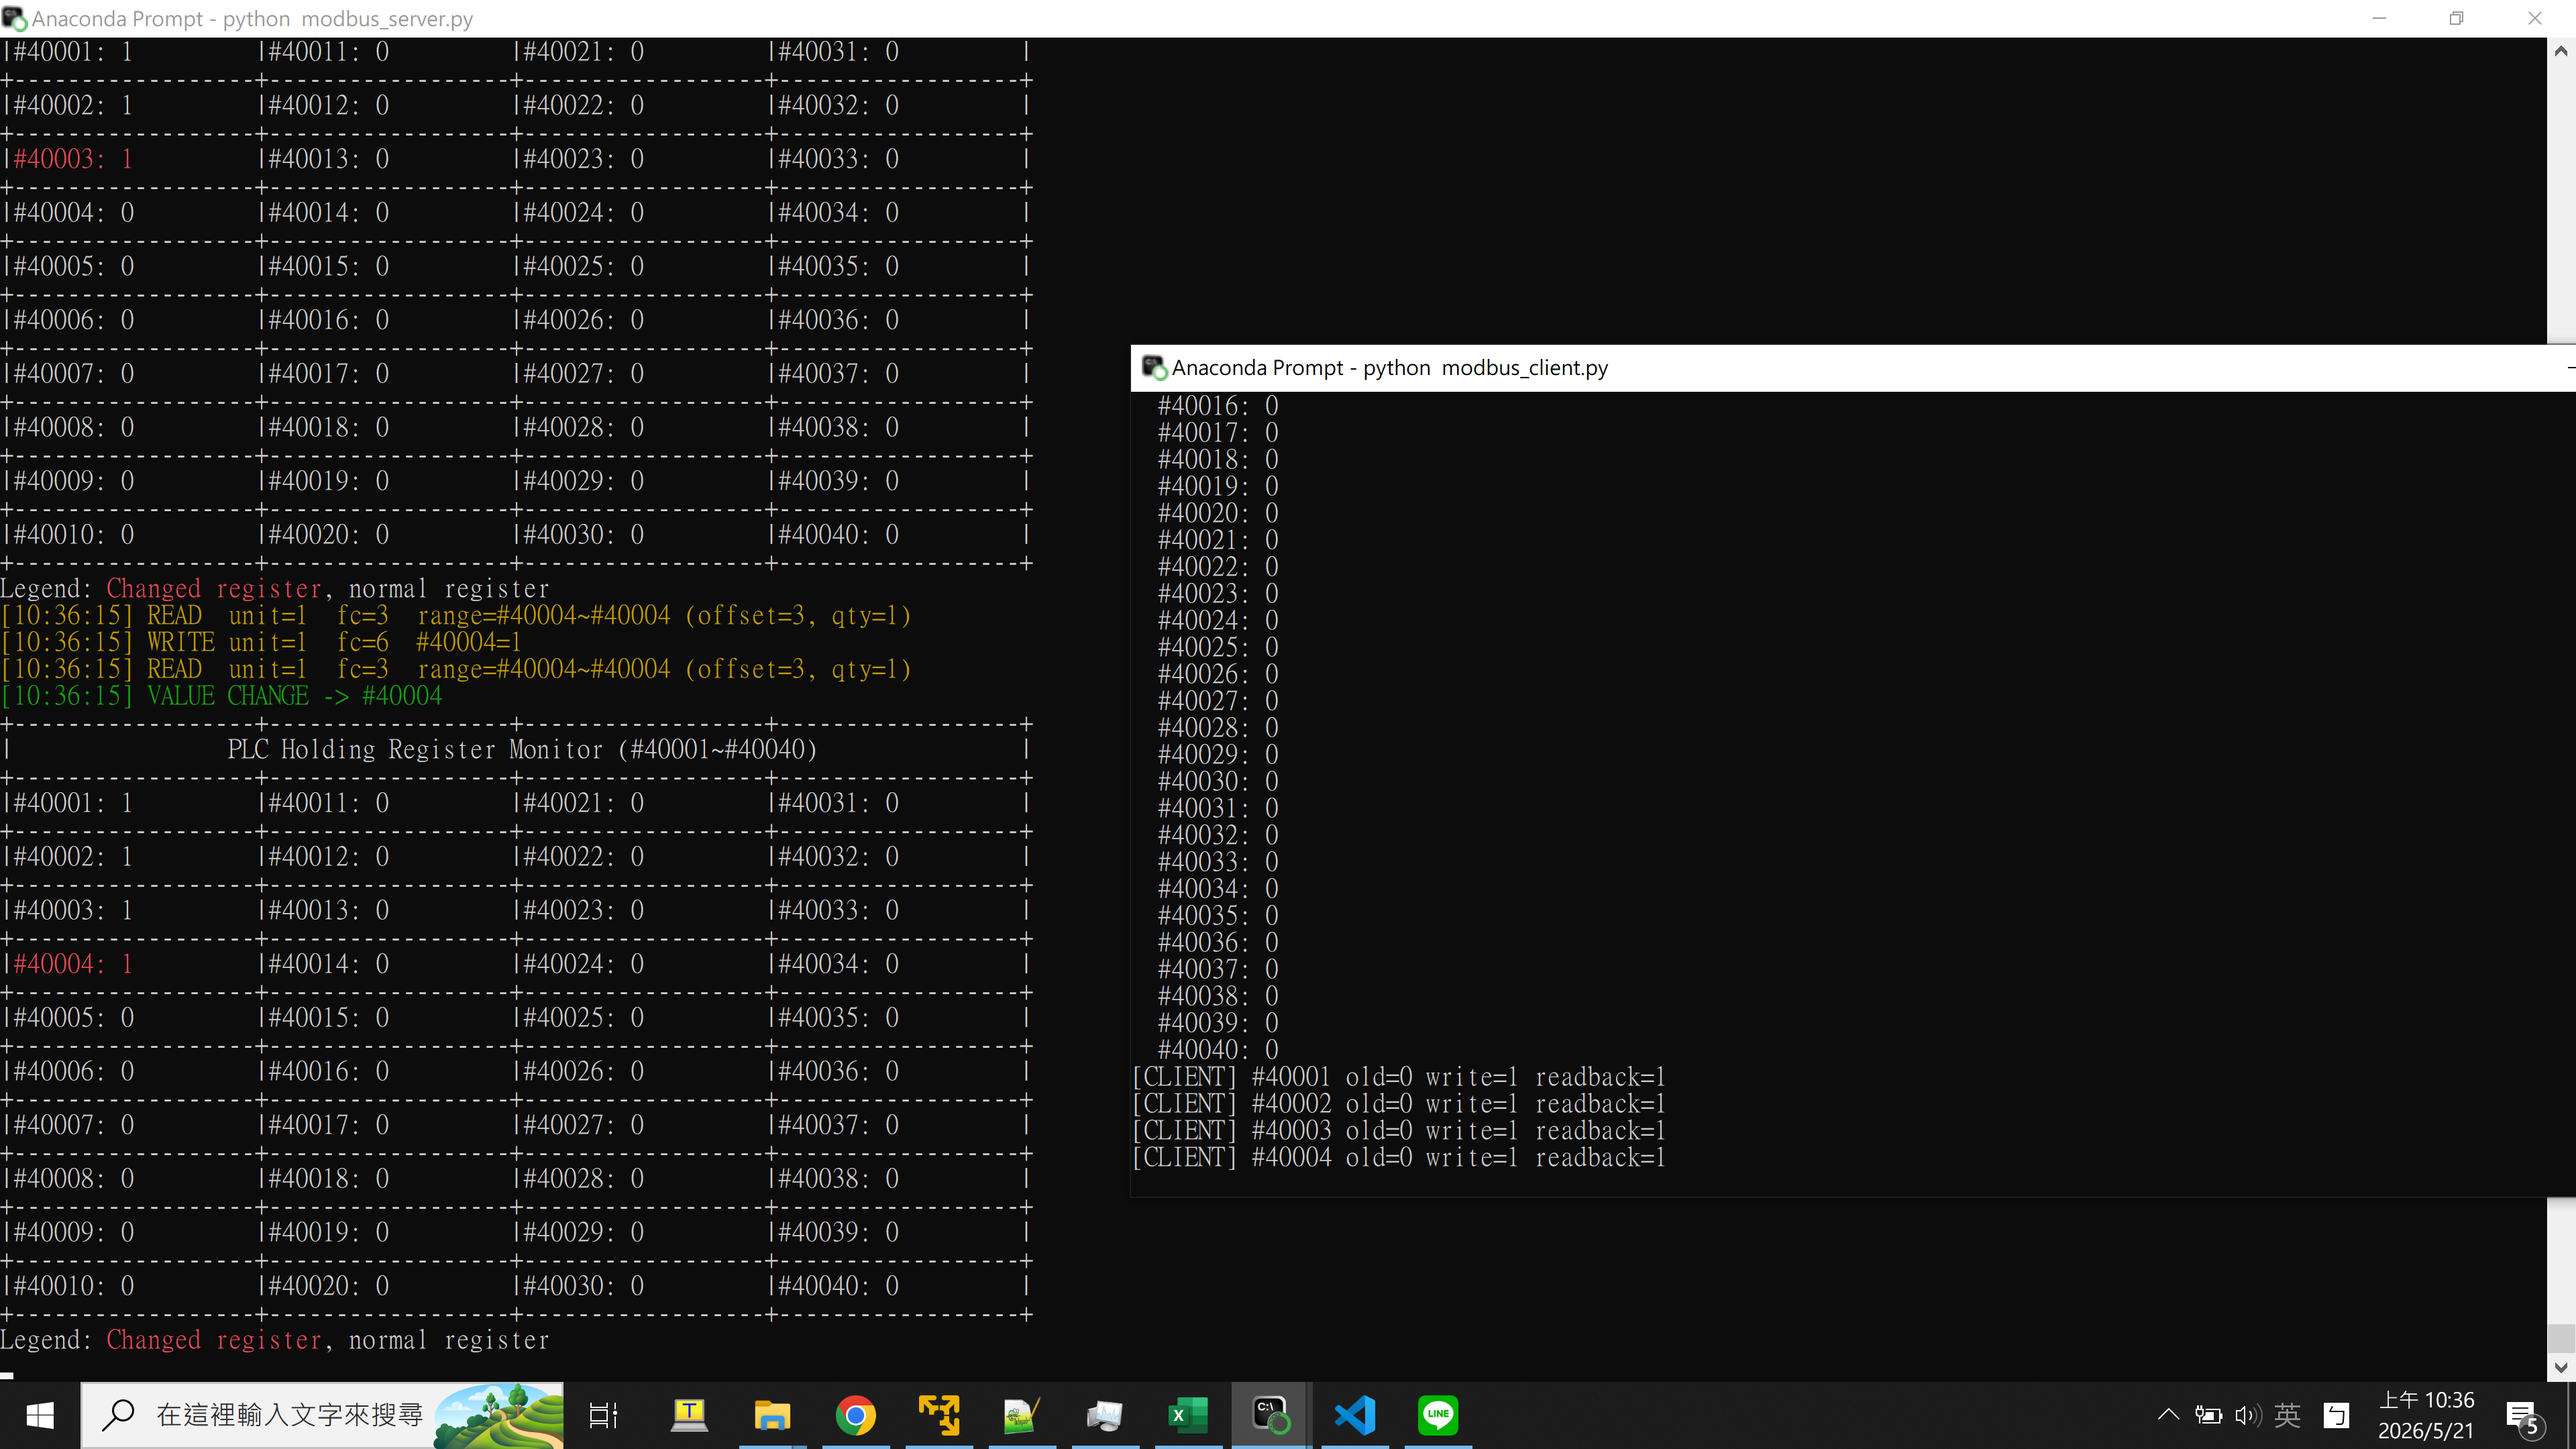
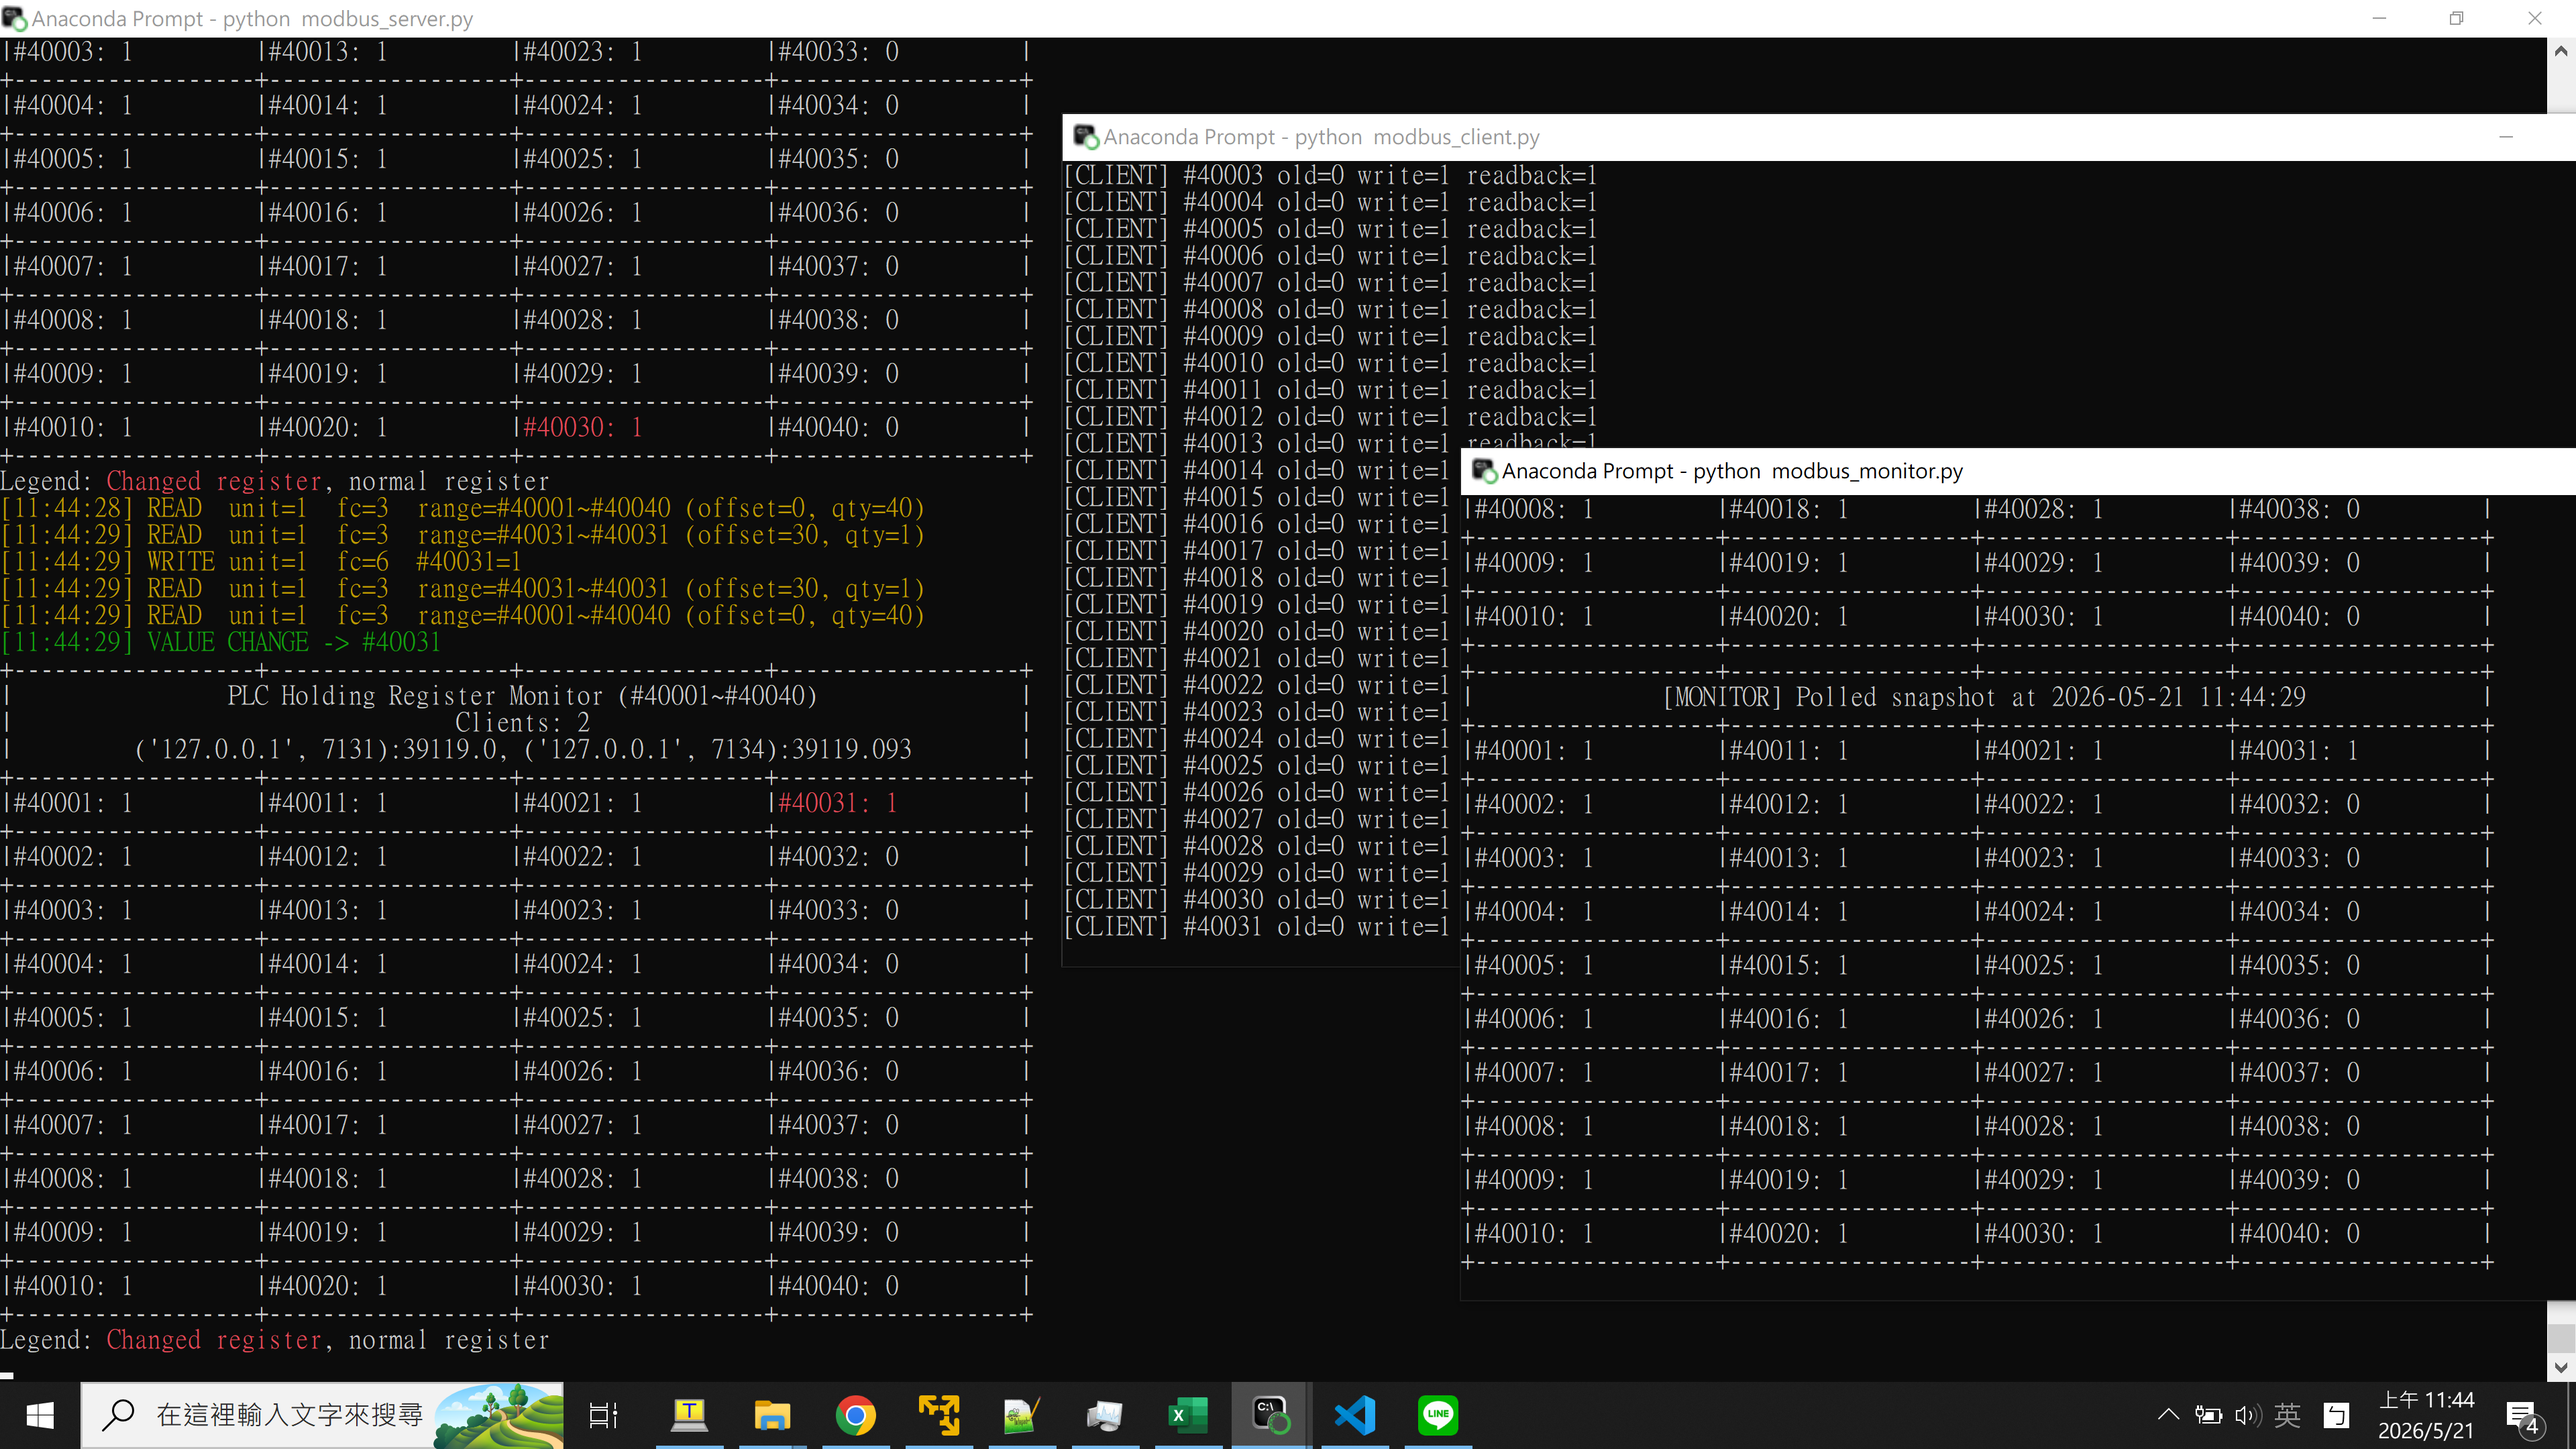
Enhance server client timeout and tracking; close client connections cleanly

diff --git a/modbus_server.py b/modbus_server.py
@@ -12,9 +12,10 @@ Address mapping note:
 import argparse
 from datetime import datetime
 import signal
+import socket
 import sys
 import time
-from typing import Iterable, List, Sequence, Set
+from typing import Iterable, List, Sequence, Set, Tuple
 
 import modbus_tk.hooks as hooks
 from colorama import just_fix_windows_console
@@ -92,7 +93,12 @@ def maybe_color(text: str, color: str, enabled: bool) -> str:
     return f"{color}{text}{RESET}"
 
 
-def render_register_table(values: Sequence[int], changed_offsets: Set[int], color_enabled: bool) -> str:
+def render_register_table(
+    values: Sequence[int],
+    changed_offsets: Set[int],
+    color_enabled: bool,
+    active_clients: Sequence[str],
+) -> str:
     """
     Render #40001~#40040 in an ASCII table.
 
@@ -105,10 +111,15 @@ def render_register_table(values: Sequence[int], changed_offsets: Set[int], colo
 
     horizontal = "+" + "+".join(["-" * cell_width] * col_count) + "+"
     title = "PLC Holding Register Monitor (#40001~#40040)"
+    client_count = len(active_clients)
+    client_status = f"Clients: {client_count}"
+    client_ips = ", ".join(active_clients) if active_clients else "No connected clients"
 
     lines: List[str] = []
     lines.append(horizontal)
     lines.append("|" + title.center(cell_width * col_count + (col_count - 1)) + "|")
+    lines.append("|" + client_status.center(cell_width * col_count + (col_count - 1)) + "|")
+    lines.append("|" + client_ips.center(cell_width * col_count + (col_count - 1)) + "|")
     lines.append(horizontal)
 
     for row in range(row_count):
@@ -205,7 +216,12 @@ def main() -> None:
     # Keep one baseline snapshot; we use it to detect value changes and refresh table.
     previous_values = tuple(slave.get_values("hr", 0, 40))
     print()
-    print(render_register_table(previous_values, changed_offsets=set(), color_enabled=color_enabled))
+    print(render_register_table(
+        previous_values,
+        changed_offsets=set(),
+        color_enabled=color_enabled,
+        active_clients=[],
+    ))
 
     def on_before_handle_request(hook_args):
         """Hook callback fired for each incoming Modbus request."""
@@ -227,6 +243,78 @@ def main() -> None:
         print(f"[SERVER] Warning: could not install request hook: {exc}")
         print("[SERVER] Register change table will still update on value changes")
 
+    active_clients = {}
+    CLIENT_IDLE_TIMEOUT = 30.0
+
+    def on_client_connect(hook_args):
+        if not isinstance(hook_args, tuple) or len(hook_args) != 3:
+            return
+        _server, client_sock, address = hook_args
+        active_clients[client_sock.fileno()] = (address, time.monotonic(), client_sock)
+        print(maybe_color(
+            f"[{timestamp()}] CLIENT CONNECTED {address[0]}:{address[1]} total={len(active_clients)}",
+            GREEN,
+            color_enabled,
+        ))
+
+    def on_client_disconnect(hook_args):
+        if not isinstance(hook_args, tuple) or len(hook_args) < 2:
+            return
+        _server, client_sock = hook_args
+        fileno = client_sock.fileno()
+        entry = active_clients.pop(fileno, None)
+        count = len(active_clients)
+        if entry is not None:
+            address, _, _ = entry
+            print(maybe_color(
+                f"[{timestamp()}] CLIENT DISCONNECTED {address[0]}:{address[1]} total={count}",
+                YELLOW,
+                color_enabled,
+            ))
+        else:
+            print(maybe_color(
+                f"[{timestamp()}] CLIENT DISCONNECTED socket={fileno} total={count}",
+                YELLOW,
+                color_enabled,
+            ))
+
+    def on_after_recv(hook_args):
+        if not isinstance(hook_args, tuple) or len(hook_args) != 3:
+            return
+        _server, client_sock, _request = hook_args
+        fileno = client_sock.fileno()
+        if fileno in active_clients:
+            address, _, sock = active_clients[fileno]
+            active_clients[fileno] = (address, time.monotonic(), sock)
+
+    def cleanup_idle_clients() -> None:
+        now = time.monotonic()
+        for fileno, (address, last_seen, sock) in list(active_clients.items()):
+            if now - last_seen > CLIENT_IDLE_TIMEOUT:
+                try:
+                    sock.close()
+                except Exception:
+                    pass
+                active_clients.pop(fileno, None)
+                try:
+                    if sock in server._sockets:
+                        server._sockets.remove(sock)
+                except Exception:
+                    pass
+                print(maybe_color(
+                    f"[{timestamp()}] CLIENT TIMEOUT {address[0]}:{address[1]} total={len(active_clients)}",
+                    YELLOW,
+                    color_enabled,
+                ))
+
+    try:
+        hooks.install_hook("modbus_tcp.TcpServer.on_connect", on_client_connect)
+        hooks.install_hook("modbus_tcp.TcpServer.on_disconnect", on_client_disconnect)
+        hooks.install_hook("modbus_tcp.TcpServer.after_recv", on_after_recv)
+        print(maybe_color("[SERVER] Connection hooks installed", GREEN, color_enabled))
+    except Exception as exc:
+        print(f"[SERVER] Warning: could not install connection hooks: {exc}")
+
     def shutdown_handler(signum, frame):
         """Gracefully stop server when Ctrl+C or termination signal is received."""
         del signum, frame
@@ -241,6 +329,7 @@ def main() -> None:
     # Keep the main thread alive while the server handles requests internally.
     try:
         while True:
+            cleanup_idle_clients()
             current_values = tuple(slave.get_values("hr", 0, 40))
             changed_offsets = collect_changed_offsets(previous_values, current_values)
 
@@ -250,7 +339,15 @@ def main() -> None:
                     f"#{offset_to_register_number(offset)}" for offset in sorted(changed_offsets)
                 )
                 print(maybe_color(f"[{timestamp()}] VALUE CHANGE -> {changed_text}", GREEN, color_enabled))
-                print(render_register_table(current_values, changed_offsets, color_enabled))
+                active_list = [f"{addr[0]}:{addr[1]}" for addr in active_clients.values()]
+                print(
+                    render_register_table(
+                        current_values,
+                        changed_offsets,
+                        color_enabled,
+                        active_clients=active_list,
+                    )
+                )
                 previous_values = current_values
 
             time.sleep(0.2)

diff --git a/modbus_monitor.py b/modbus_monitor.py
@@ -1,0 +1,125 @@
+"""
+Modbus TCP Register Monitor using modbus_tk.
+
+This monitor reads all holding registers #40001-#40040 from a Modbus TCP server
+and prints them in a neatly aligned ASCII table on each polling interval.
+"""
+
+import argparse
+import time
+from datetime import datetime
+from typing import Sequence, Tuple
+
+from modbus_tk import defines as cst
+from modbus_tk import modbus_tcp
+
+
+def parse_args() -> argparse.Namespace:
+    parser = argparse.ArgumentParser(
+        description="Monitor all Modbus holding registers #40001-#40040."
+    )
+    parser.add_argument(
+        "--host",
+        default="127.0.0.1",
+        help="Modbus server IP address (default: 127.0.0.1).",
+    )
+    parser.add_argument(
+        "--port",
+        type=int,
+        default=502,
+        help="Modbus server port (default: 502).",
+    )
+    parser.add_argument(
+        "--slave-id",
+        type=int,
+        default=1,
+        help="Target slave ID (default: 1).",
+    )
+    parser.add_argument(
+        "--interval",
+        type=float,
+        default=1.0,
+        help="Polling interval in seconds (default: 1.0).",
+    )
+    parser.add_argument(
+        "--timeout",
+        type=float,
+        default=5.0,
+        help="Socket timeout in seconds (default: 5.0).",
+    )
+    return parser.parse_args()
+
+
+def read_all_registers(
+    master: modbus_tcp.TcpMaster, slave_id: int
+) -> Tuple[int, ...]:
+    return tuple(
+        master.execute(
+            slave=slave_id,
+            function_code=cst.READ_HOLDING_REGISTERS,
+            starting_address=0,
+            quantity_of_x=40,
+        )
+    )
+
+
+def render_register_table(title: str, values: Sequence[int]) -> str:
+    col_count = 4
+    row_count = 10
+    cell_width = 18
+
+    horizontal = "+" + "+".join(["-" * cell_width] * col_count) + "+"
+    lines = [horizontal]
+    lines.append("|" + title.center(cell_width * col_count + (col_count - 1)) + "|")
+    lines.append(horizontal)
+
+    for row in range(row_count):
+        row_cells = []
+        for col in range(col_count):
+            offset = row + (row_count * col)
+            reg_num = 40001 + offset
+            cell_text = f"#{reg_num}: {values[offset]}".ljust(cell_width)
+            row_cells.append(cell_text)
+
+        lines.append("|" + "|".join(row_cells) + "|")
+        lines.append(horizontal)
+
+    return "\n".join(lines)
+
+
+def main() -> None:
+    args = parse_args()
+
+    master = modbus_tcp.TcpMaster(host=args.host, port=args.port)
+    master.set_timeout(args.timeout)
+
+    print(
+        f"[MONITOR] Connecting to {args.host}:{args.port}, slave ID {args.slave_id}"
+    )
+    print(f"[MONITOR] Polling interval: {args.interval:.2f}s")
+
+    initial_values = read_all_registers(master, args.slave_id)
+    print(render_register_table("[MONITOR] Startup snapshot of #40001-#40040", initial_values))
+
+    try:
+        while True:
+            time.sleep(args.interval)
+            current_values = read_all_registers(master, args.slave_id)
+            print(render_register_table(
+                f"[MONITOR] Polled snapshot at {datetime.now().strftime('%Y-%m-%d %H:%M:%S')}",
+                current_values,
+            ))
+    except KeyboardInterrupt:
+        print("\n[MONITOR] Stopped by user")
+    except Exception as exc:
+        print(f"[MONITOR] Error: {exc}")
+    finally:
+        try:
+            master.close()
+            print("[MONITOR] Connection closed")
+        except Exception as exc:
+            print(f"[MONITOR] Error closing connection: {exc}")
+
+
+if __name__ == "__main__":
+    main()

diff --git a/modbus_client.py b/modbus_client.py
@@ -178,6 +178,12 @@ def main() -> None:
             time.sleep(args.interval)
     except KeyboardInterrupt:
         print("\n[CLIENT] Stopped by user")
+    finally:
+        try:
+            master.close()
+            print("[CLIENT] Connection closed")
+        except Exception as exc:
+            print(f"[CLIENT] Error closing connection: {exc}")
 
 
 if __name__ == "__main__":

diff --git a/README.md b/README.md
@@ -69,6 +69,16 @@ Client behavior:
 - workflow: read current -> write new value -> readback
 - cycles target register from `#40001` to `#40040`, then wraps to `#40001`
 
+### Monitor full register table
+
+You can also use `modbus_monitor.py` to poll and display the entire register table in a neatly aligned ASCII layout on every interval.
+
+```bash
+python modbus_monitor.py --host 127.0.0.1 --port 502 --slave-id 1 --interval 1.0
+```
+
+Both client and monitor close their Modbus TCP connection cleanly when stopped, which helps prevent server-side socket resources from being held open.
+
 ## 5. Live Demo Output
 
 Below is a representative runtime view of the Modbus server and client during operation. The server redraws the register table after each update, and the client reads, writes, and reads back values in a cyclic test loop.
